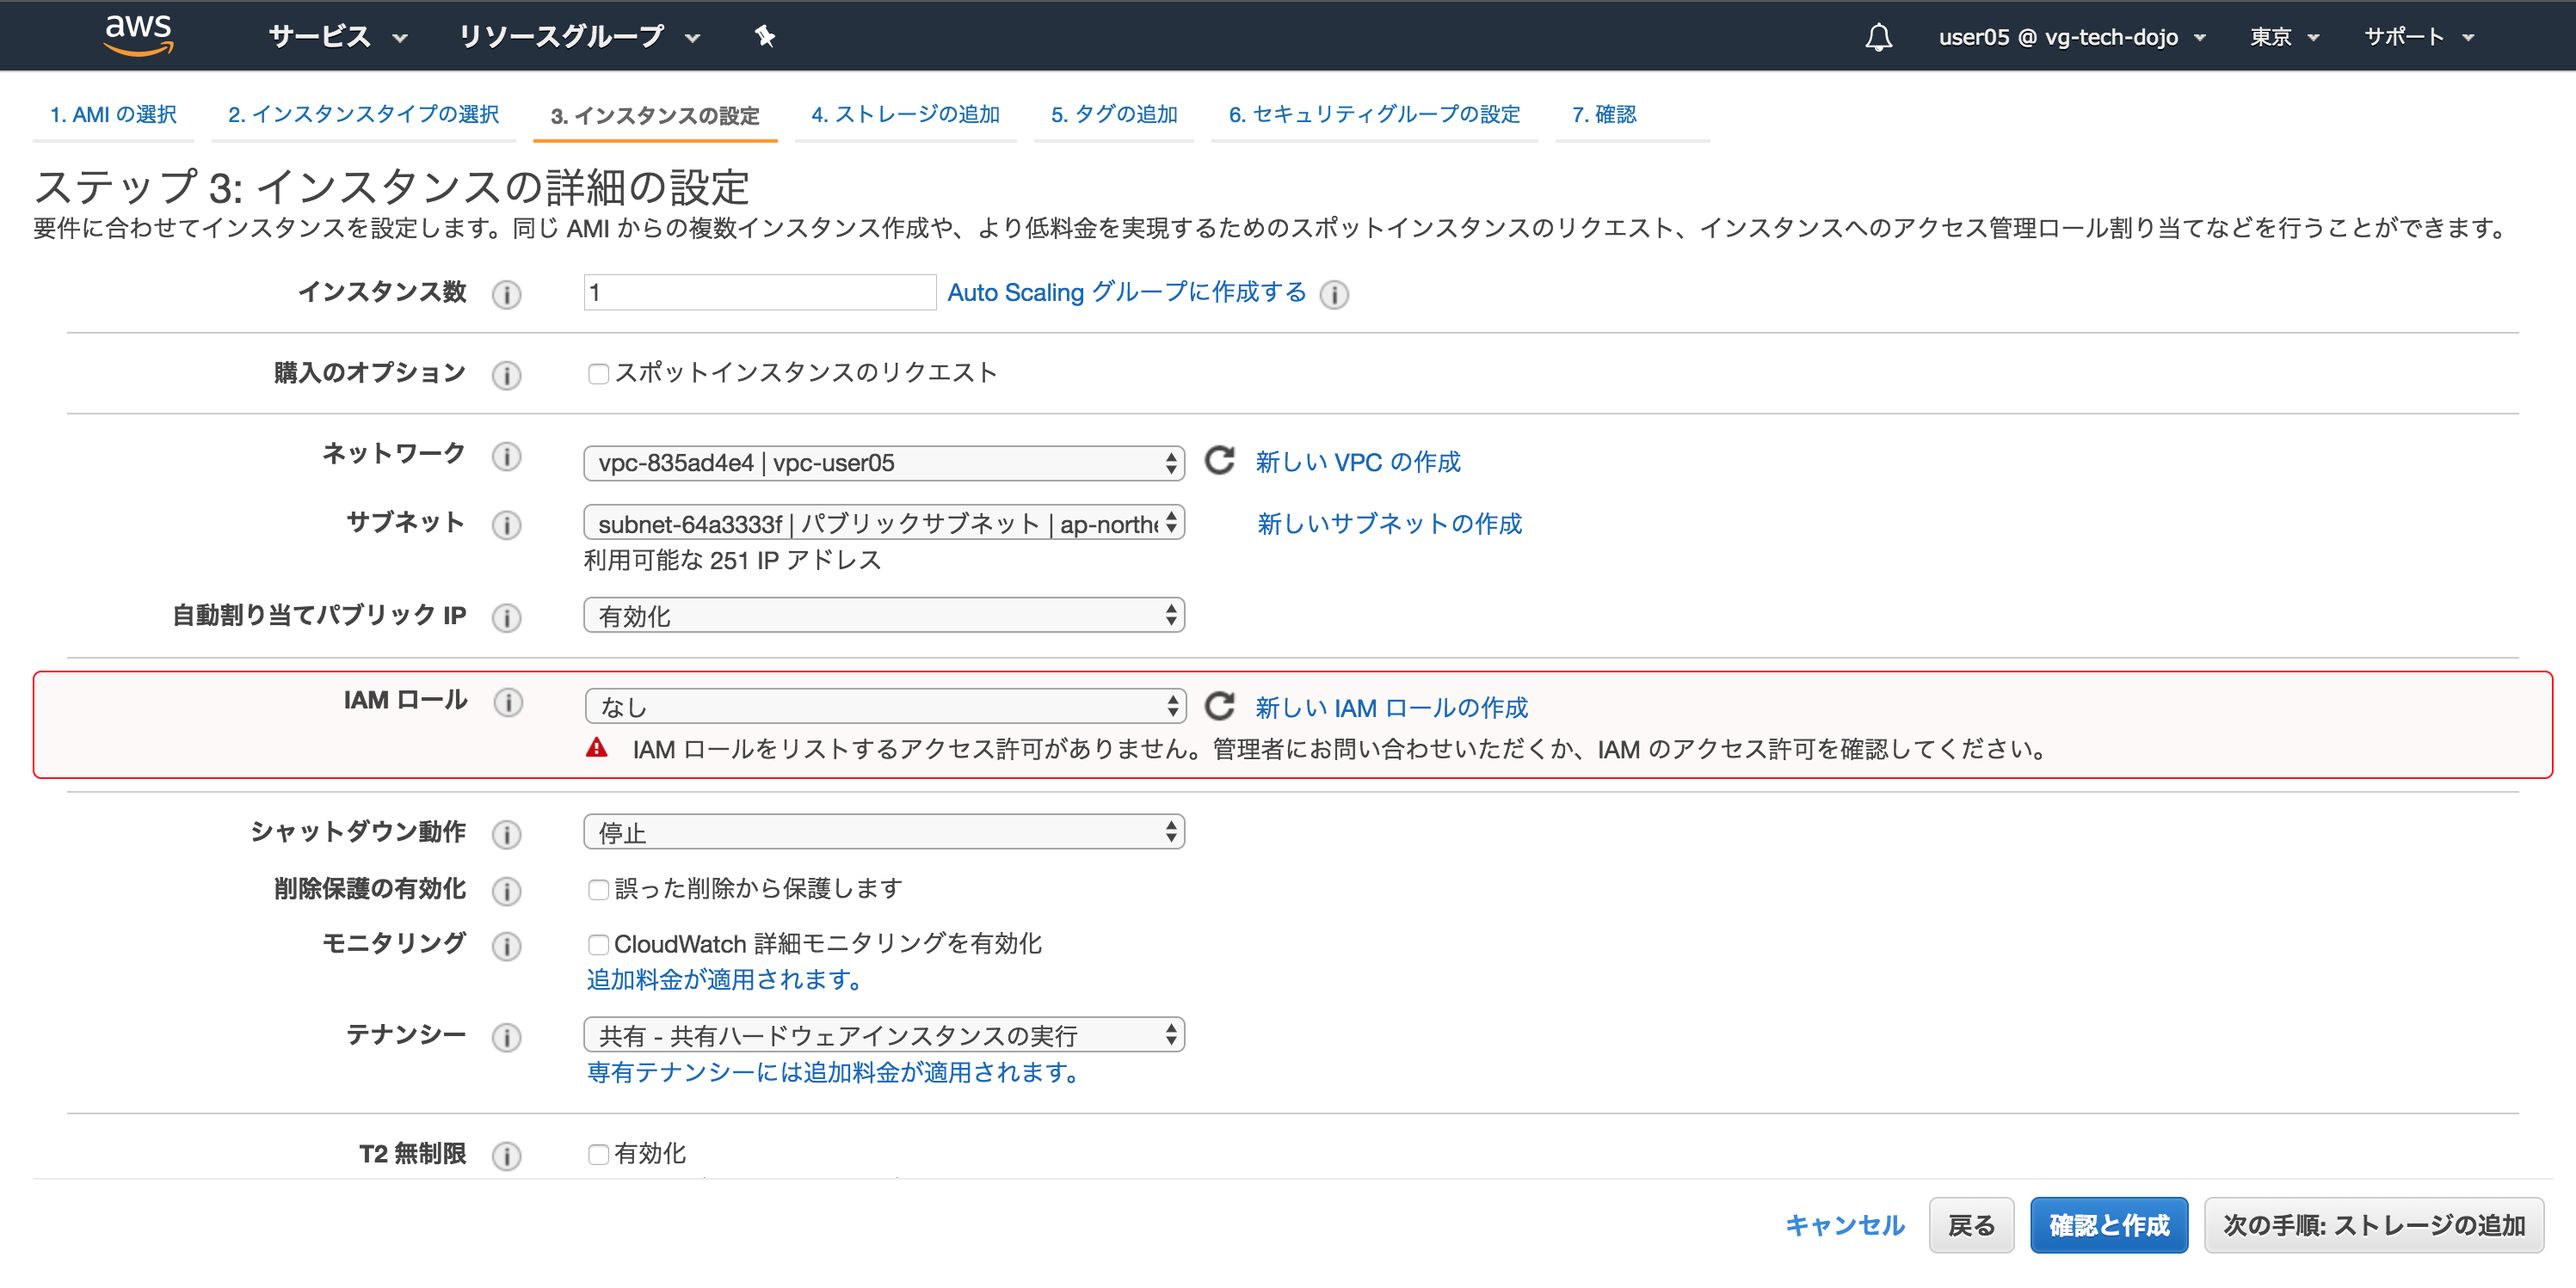
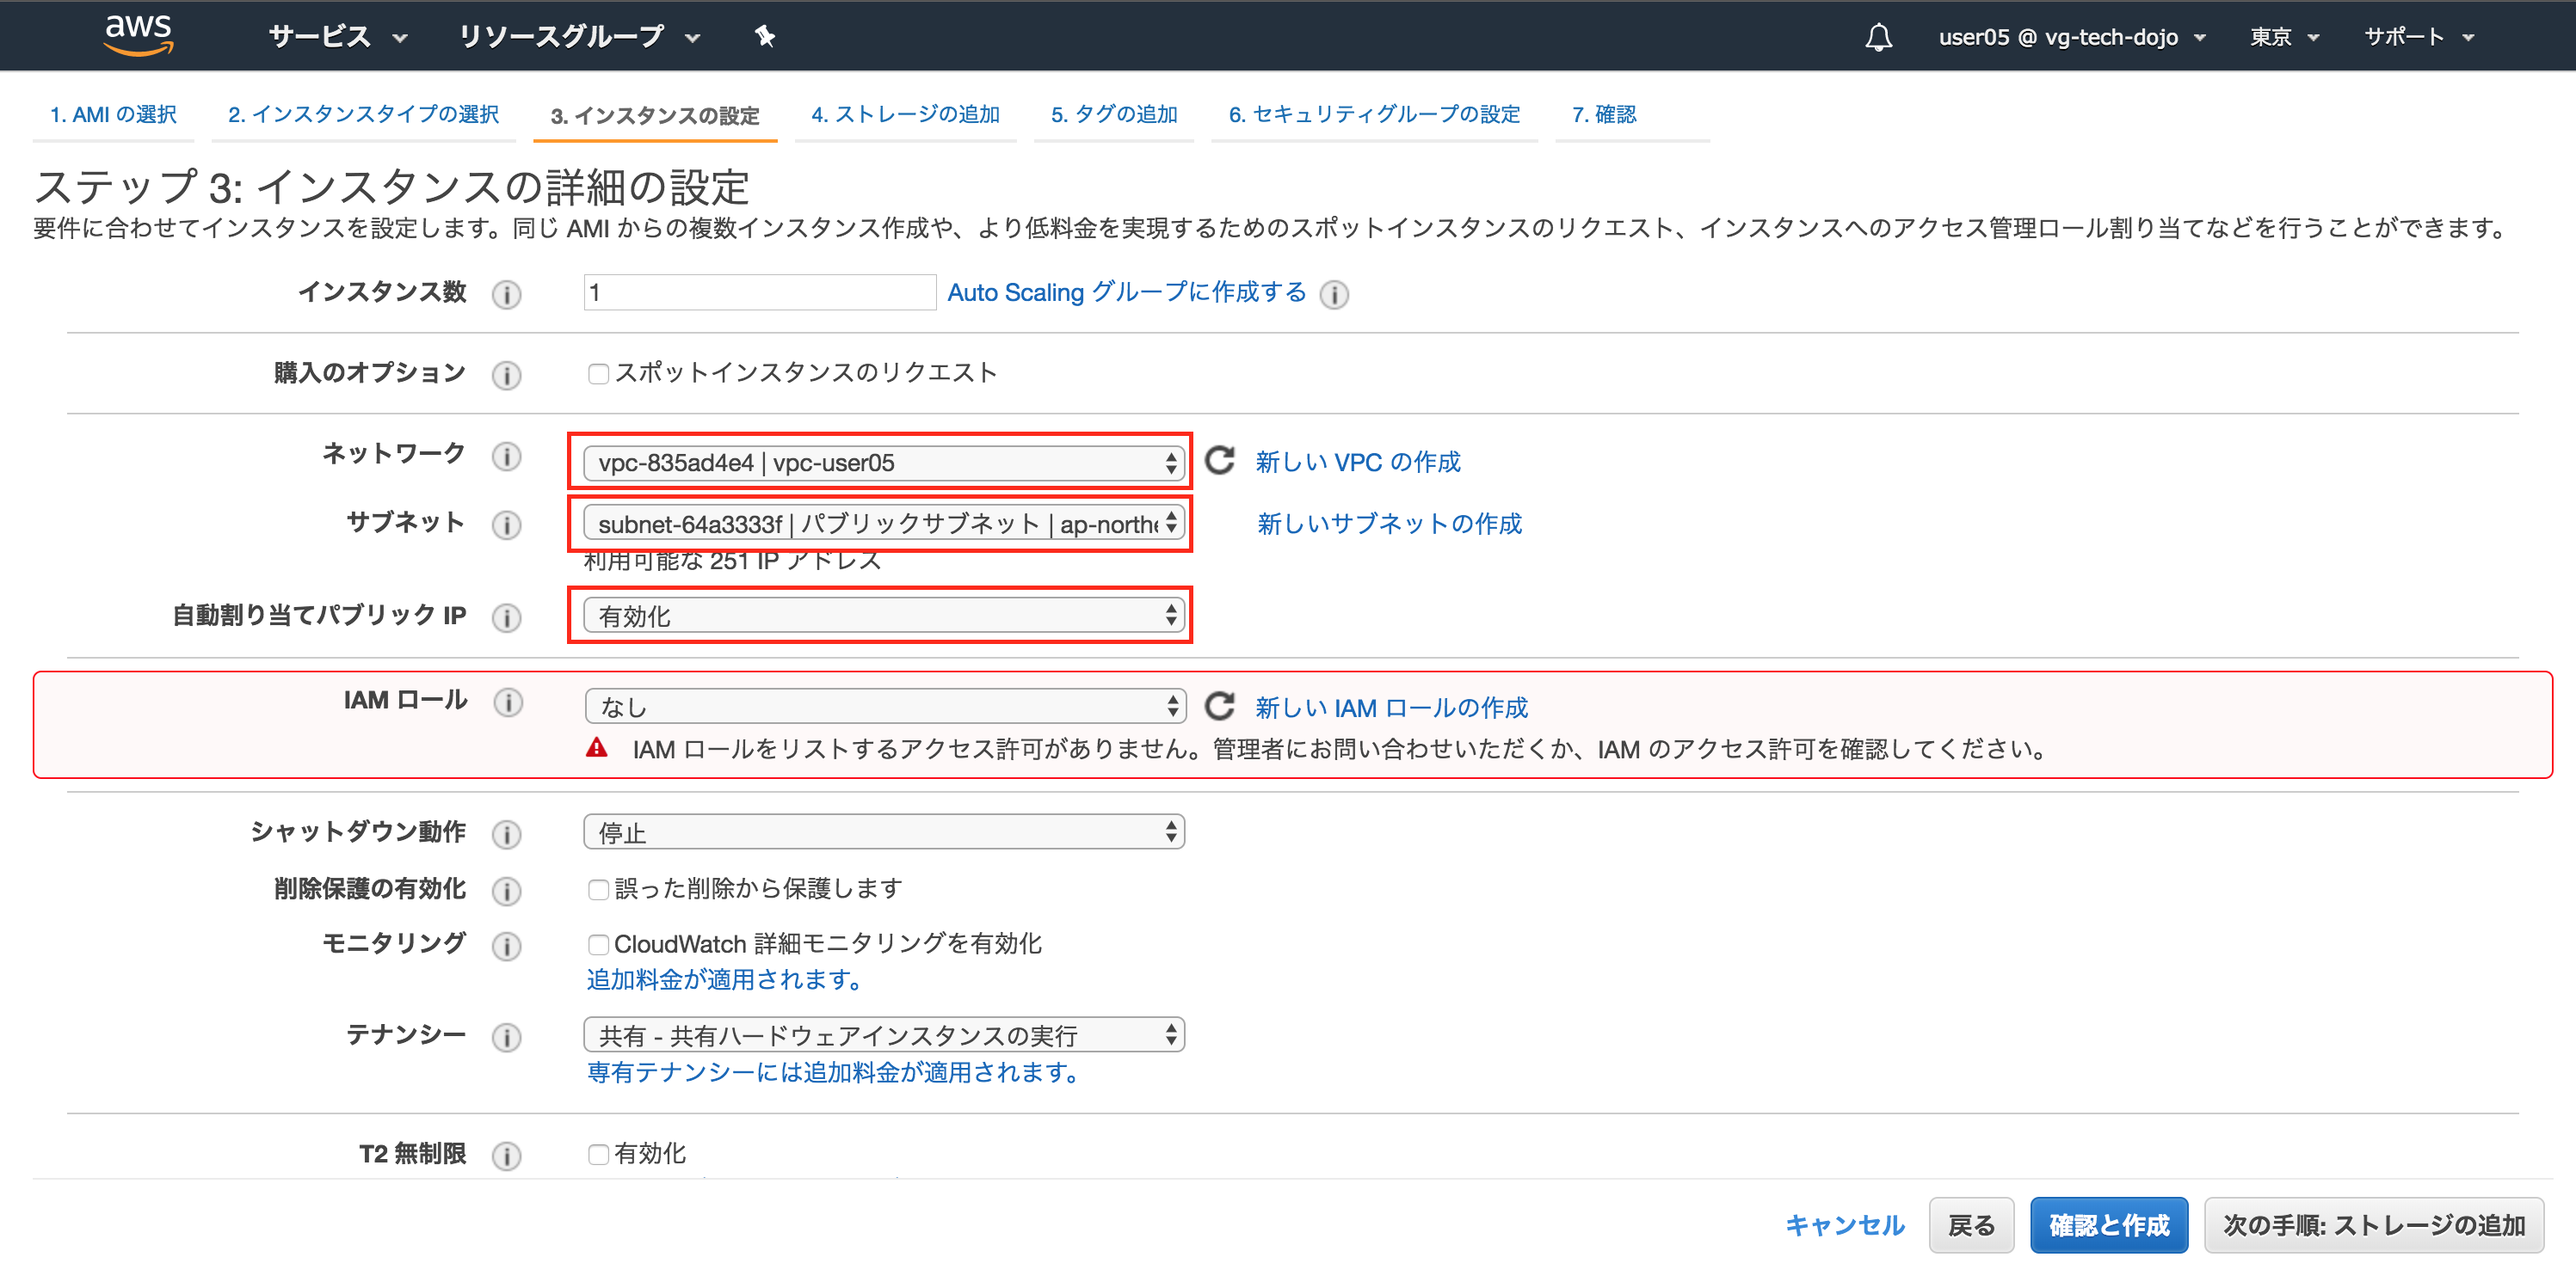
commit

Changed region(s): [[0.2174, 0.3685, 0.4659, 0.4606], [0.2174, 0.4913, 0.4659, 0.522]]

diff --git a/Step-3.md b/Step-3.md
@@ -230,6 +230,12 @@ Address: 10.0.2.226
 ![create-ec2-3](./images/step-3/create-ec2-3.png "CREATE-EC2-3")
 
 ----
+
+|項目|設定値|
+|ネットワーク|Step-1で作ったvpcを指定。vpc-userXX|
+|サブネット|パブリックサブネット ap-northeast-1c 10.0.1.0を指定|
+|自動割り当てパブリックIP|有効化|
+
 ![create-ec2-4](./images/step-3/create-ec2-4.png "CREATE-EC2-4")
 
 ----
